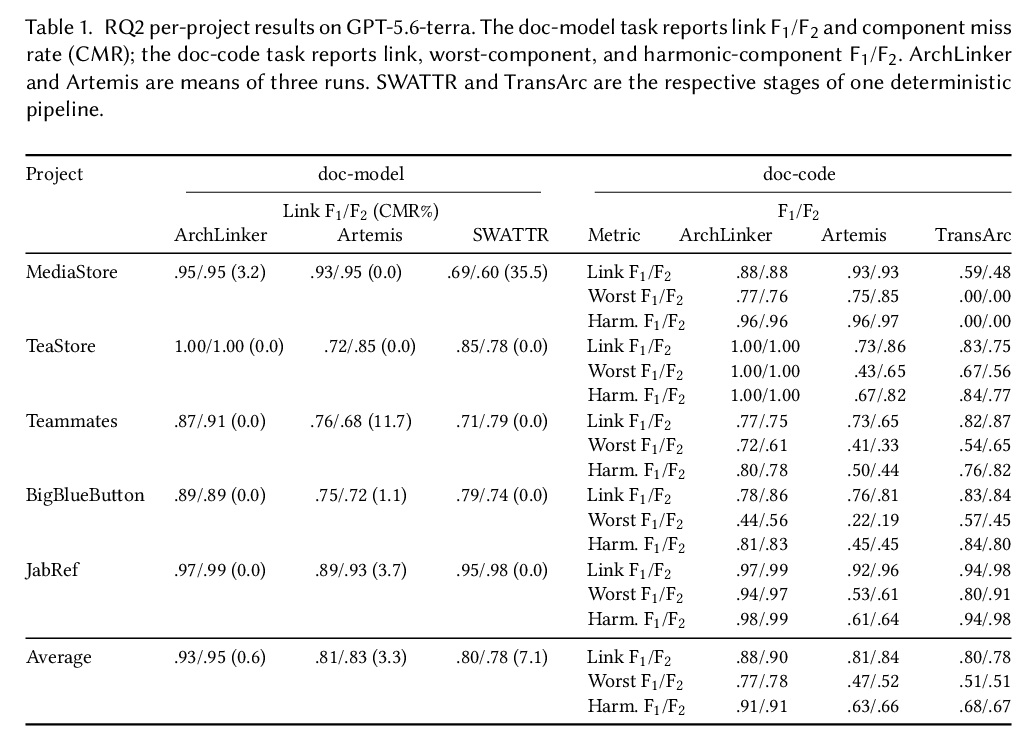
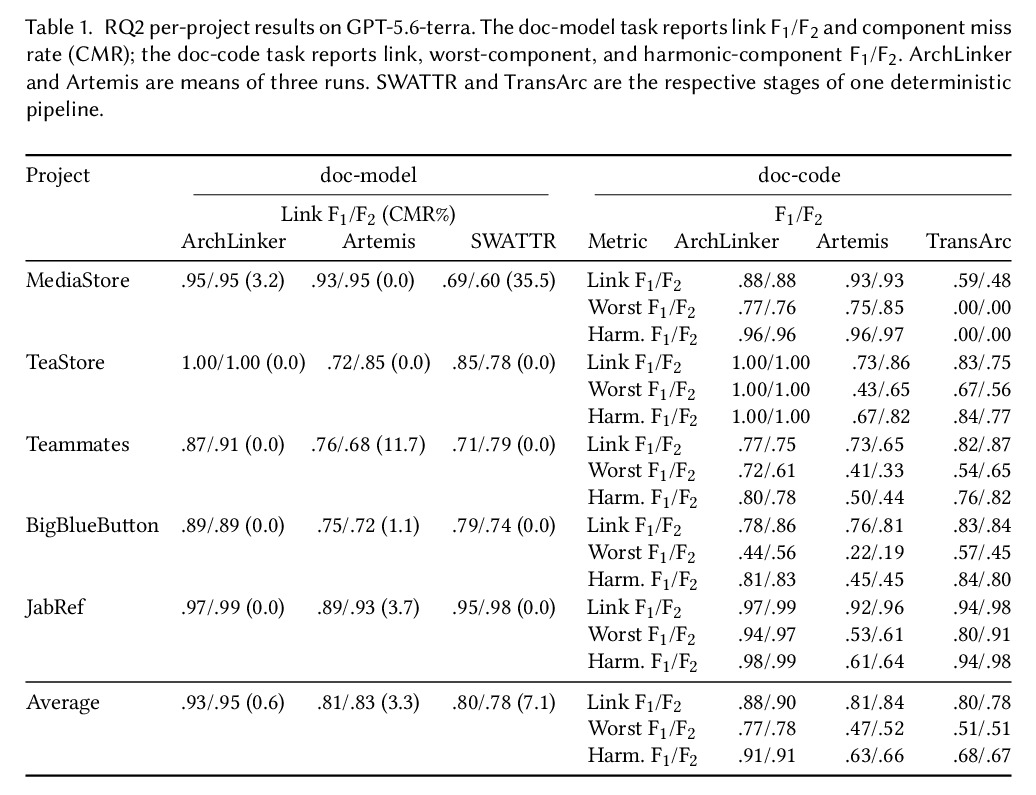
Use current RQ2 font size in layout test

diff --git a/verification/rq2-wide-layout-test.py b/verification/rq2-wide-layout-test.py
@@ -105,7 +105,7 @@ def write_tex(rows: dict[tuple[str, str], dict[str, str]]) -> None:
         "\\begin{table}[t]",
         "\\caption{RQ2 per-project results on GPT-5.6-terra. The doc-model task reports link \\fone/\\ftwo and component miss rate (CMR); the doc-code task reports link, worst-component, and harmonic-component \\fone/\\ftwo. \\approach{} and \\Artemis{} are means of three runs. SWATTR and \\TransArc{} are the respective stages of one deterministic pipeline.}",
         "\\label{tab:rq2-wide-test}",
-        "\\centering\\footnotesize",
+        "\\centering\\small",
         "\\setlength{\\tabcolsep}{2pt}",
         "\\renewcommand{\\arraystretch}{0.98}",
         "\\begin{tabular*}{\\linewidth}{@{}l@{\\extracolsep{\\fill}}p{.38\\linewidth}p{.43\\linewidth}@{}}",

diff --git a/verification/rq2-wide-layout-test.tex b/verification/rq2-wide-layout-test.tex
@@ -4,7 +4,7 @@
 \begin{table}[t]
 \caption{RQ2 per-project results on GPT-5.6-terra. The doc-model task reports link \fone/\ftwo and component miss rate (CMR); the doc-code task reports link, worst-component, and harmonic-component \fone/\ftwo. \approach{} and \Artemis{} are means of three runs. SWATTR and \TransArc{} are the respective stages of one deterministic pipeline.}
 \label{tab:rq2-wide-test}
-\centering\footnotesize
+\centering\small
 \setlength{\tabcolsep}{2pt}
 \renewcommand{\arraystretch}{0.98}
 \begin{tabular*}{\linewidth}{@{}l@{\extracolsep{\fill}}p{.38\linewidth}p{.43\linewidth}@{}}

diff --git a/verification/2026-09-20-rq2-wide-layout-test.md b/verification/2026-09-20-rq2-wide-layout-test.md
@@ -9,7 +9,7 @@ Updated: 2026-09-21
 - Five projects plus the five-project Average; precision and recall are omitted. F scores use two decimal places; CMR remains a percentage with one decimal place.
 - The body has two large task columns. Each contains a metric-by-approach matrix with explicit metric and approach headers. Doc-model places CMR on the link-score row and formats each approach cell as `F1/F2 (CMR%)`; doc-code uses separate link, worst-component, and harmonic-component F1/F2 rows.
 - The deterministic pipeline is represented by SWATTR under doc-model and TransArc under doc-code.
-- The LaTeX fragment uses `tabular*{\linewidth}`, `\footnotesize`, 2 pt `\tabcolsep`, and nested fixed-width matrices. Doc-model receives 38% and doc-code 43% of `\linewidth`. Its wrapper uses the paper's exact `acmsmall,screen,review,anonymous` class options and top-matter settings and imports `paper/abbrev.tex`.
+- The LaTeX fragment uses `tabular*{\linewidth}`, `\small` throughout, 2 pt `\tabcolsep`, and nested fixed-width matrices. Doc-model receives 38% and doc-code 43% of `\linewidth`. Its wrapper uses the paper's exact `acmsmall,screen,review,anonymous` class options and top-matter settings and imports `paper/abbrev.tex`.
 - The visual preview uses a conservative five-inch table width, DejaVu Serif 6.4 pt body text, and 300 dpi raster output. It is a layout approximation, not a LaTeX render.
 
 ## Commands and text results
